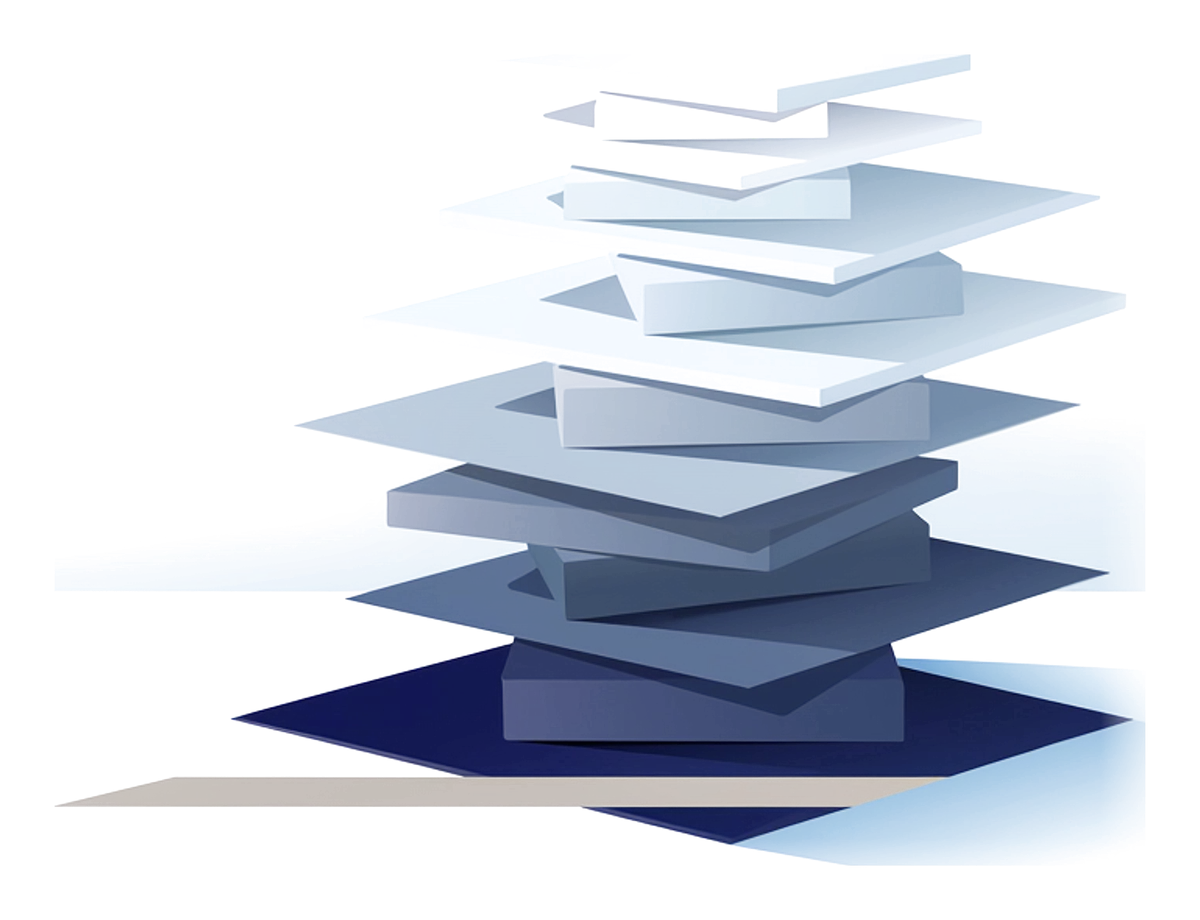
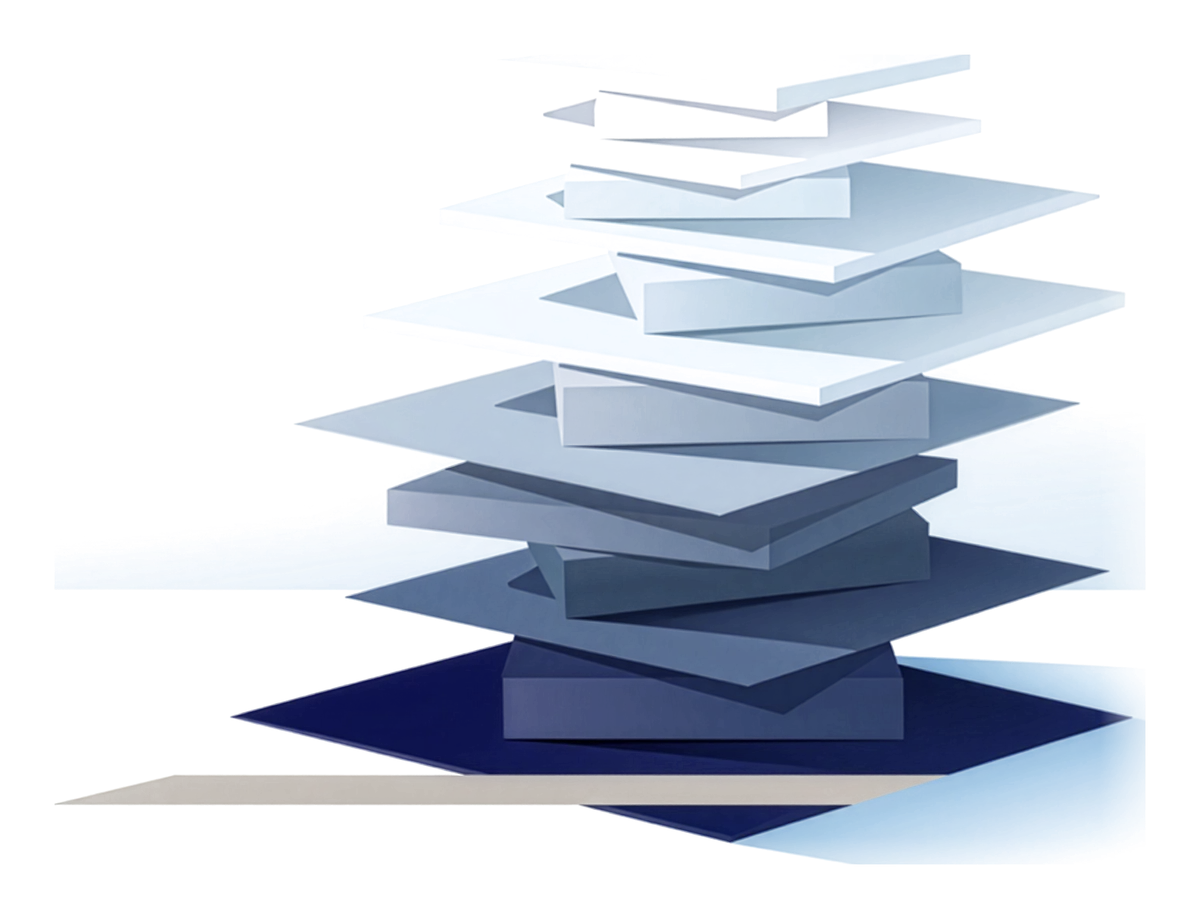
State mining undertaking hero from Firefly Upscaler 4x (30 of 63)

diff --git a/web/content/image-licences.ts b/web/content/image-licences.ts
@@ -385,7 +385,7 @@ export const imageLicences: ImageLicence[] = [
     file: "public/hero/case-study-state-mining-undertaking-east-india.webp",
     source: "licensed-generative",
     provider: "Adobe Firefly",
-    reference: "firefly-image5-2026-11-26-spec63-58 (local 4x enlargement; Firefly Upscaler pending)",
+    reference: "firefly-image5-2026-11-26-spec63-58 (Firefly Upscaler 4x)",
     acquired: "2026-11-26",
     depicts: "A graded stack of plates narrowing as it rises, each layer a different tone of navy and blue",
     aiGenerated: true,
